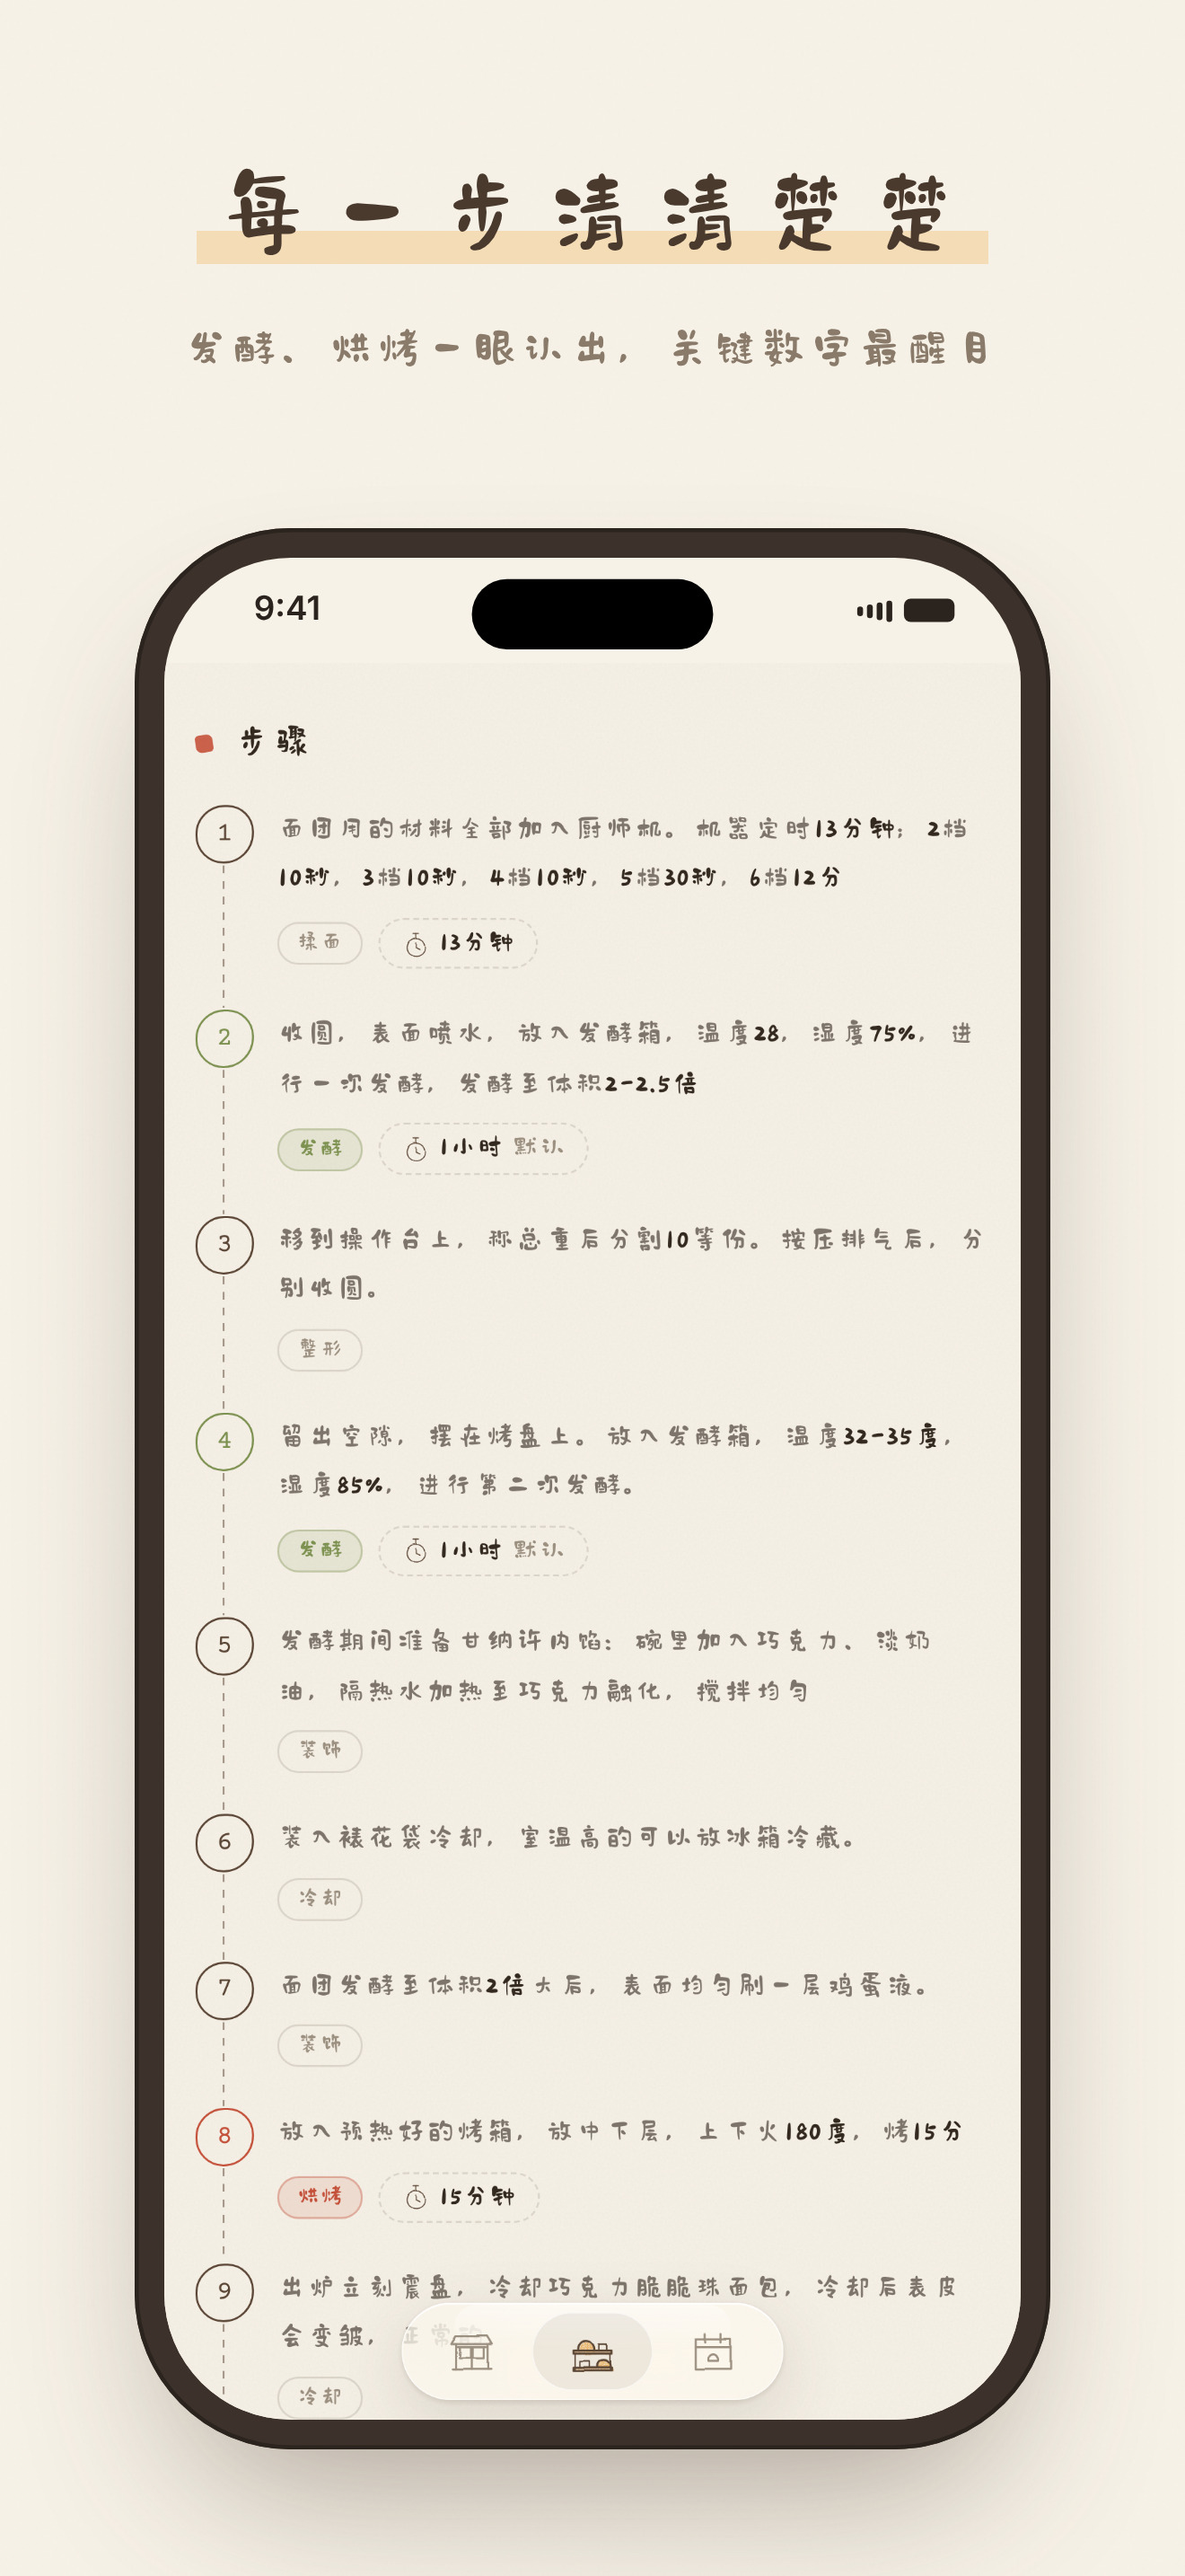
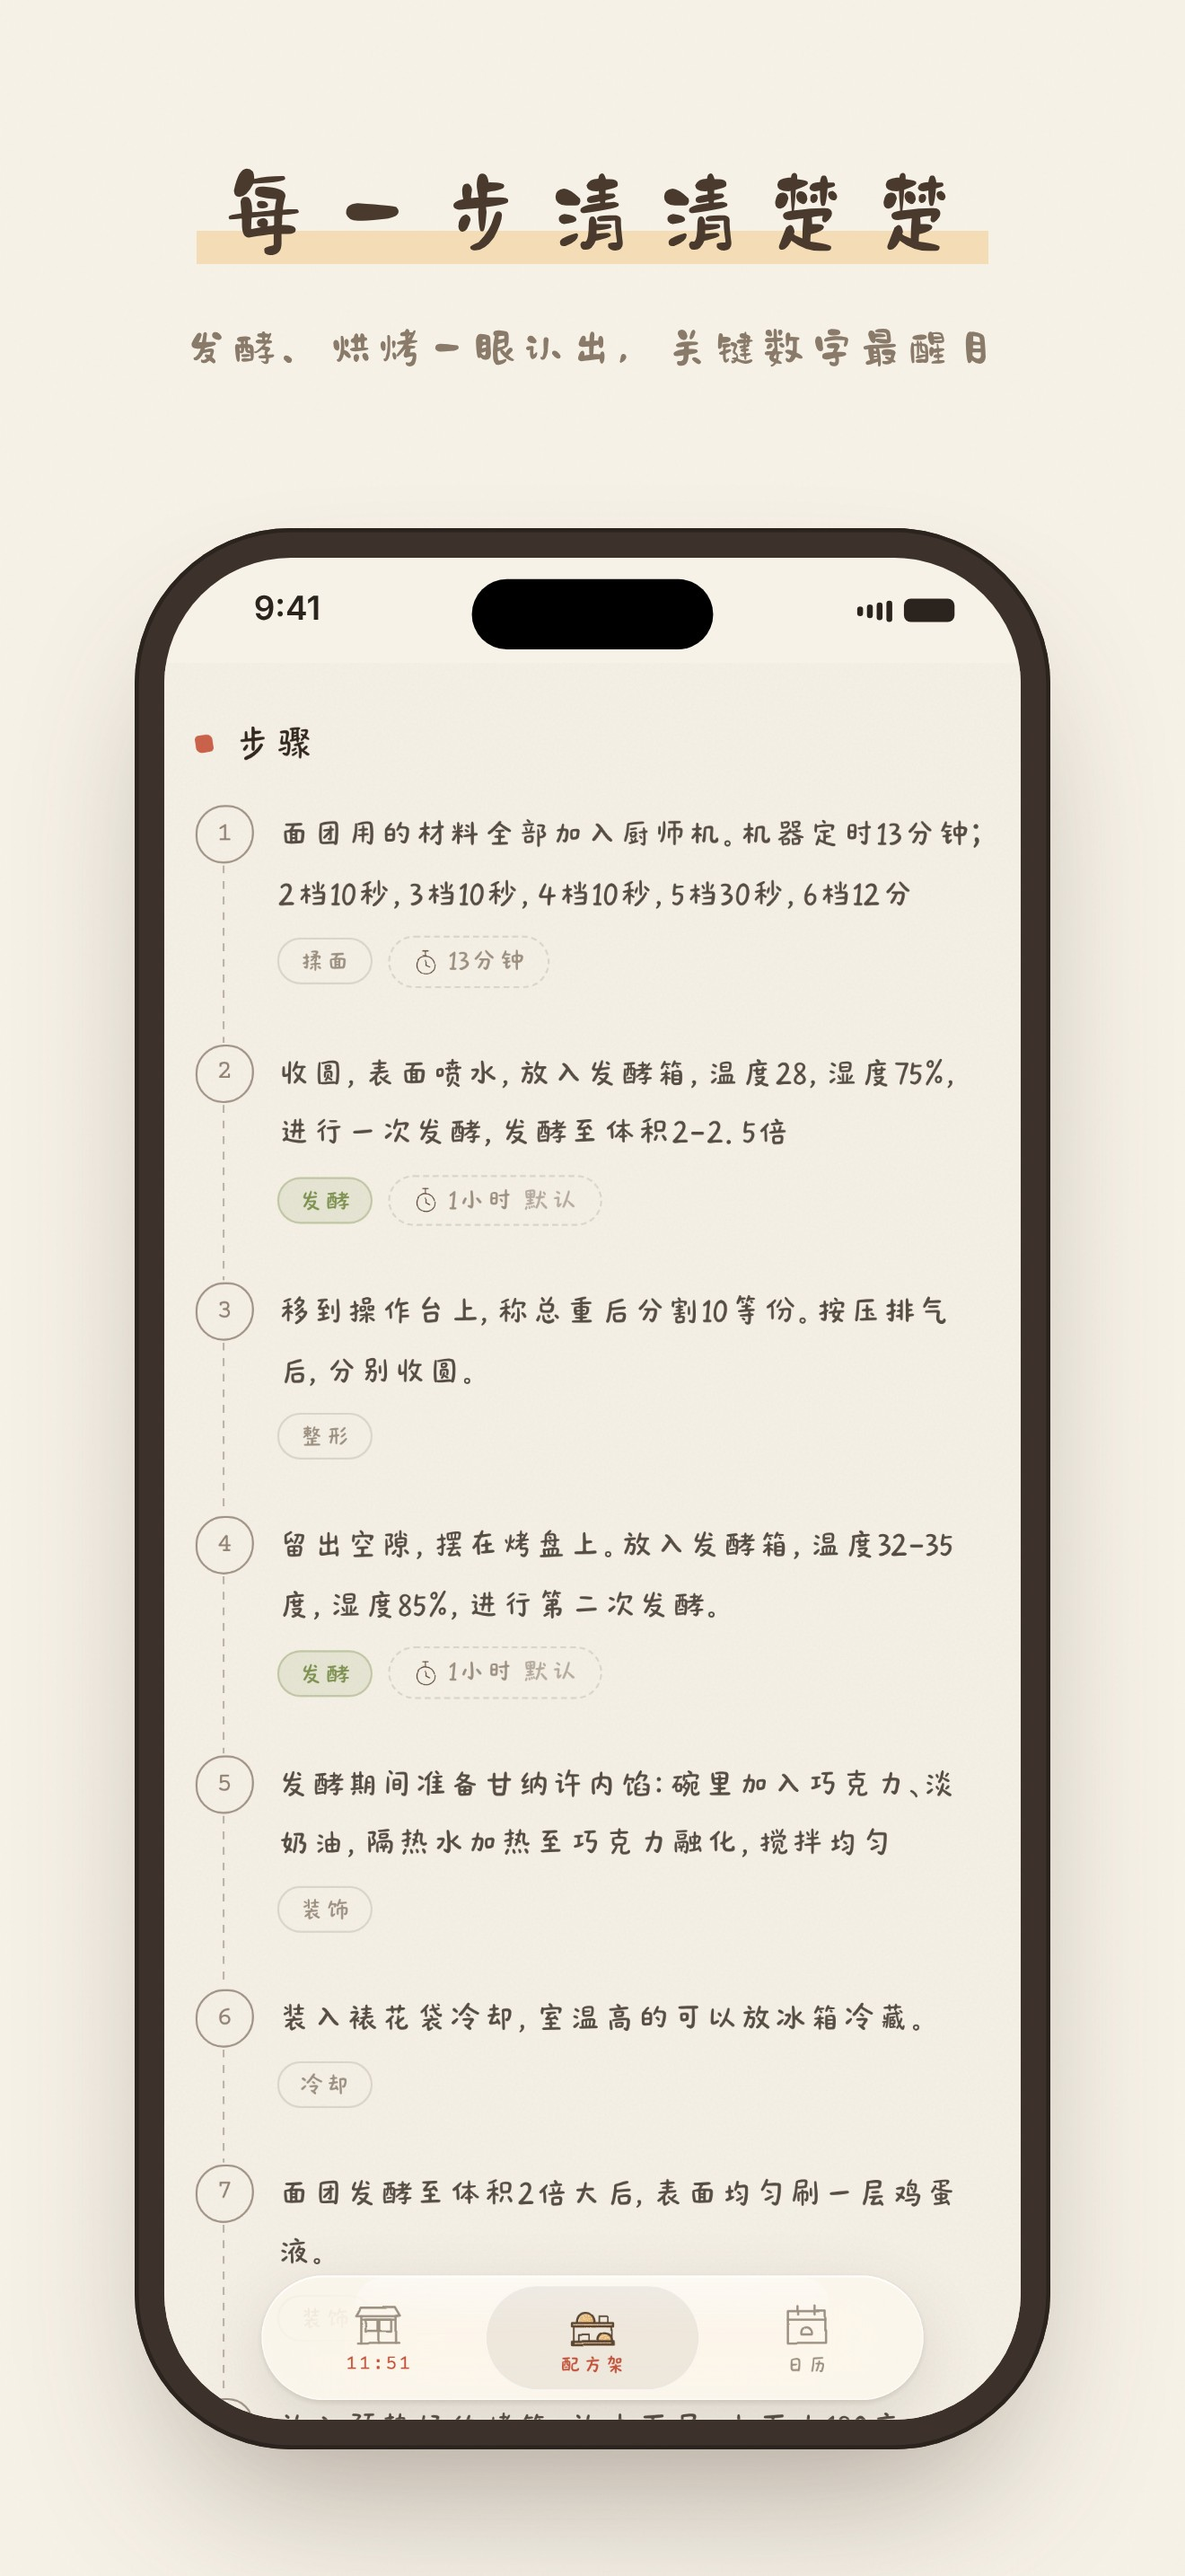
Regenerate App Store screenshots and creative for review
Screenshots and header/search images rebuilt from the current app. The
generators block the web-only 乐米小奶泡体 so the store assets show the
font the iOS app actually uses; captions mention AI-assisted import and
the 4 secret shops.

Claude-Session: https://claude.ai/code/session_01F9RazEHnZ5c2EgjunkrFMc

diff --git a/appstore/README.md b/appstore/README.md
@@ -15,6 +15,8 @@
 | 6 | 烘焙日历 | 每一炉都记进日历 | A diary for every bake |
 | 7 | 升级路线 | 从小推车到旗舰店 | From cart to flagship |
 
+截图里的文字用的是 App 里实际显示的小石头字体：网页版用的乐米小奶泡体没有 App 授权、不打进 iOS 包，生成脚本会把它挡掉。
+
 ## 详情页顶部图 & 搜索结果图
 
 `creative/` 里是 App Store Connect「创意素材」两个位置的图（JPEG，无透明通道）：
